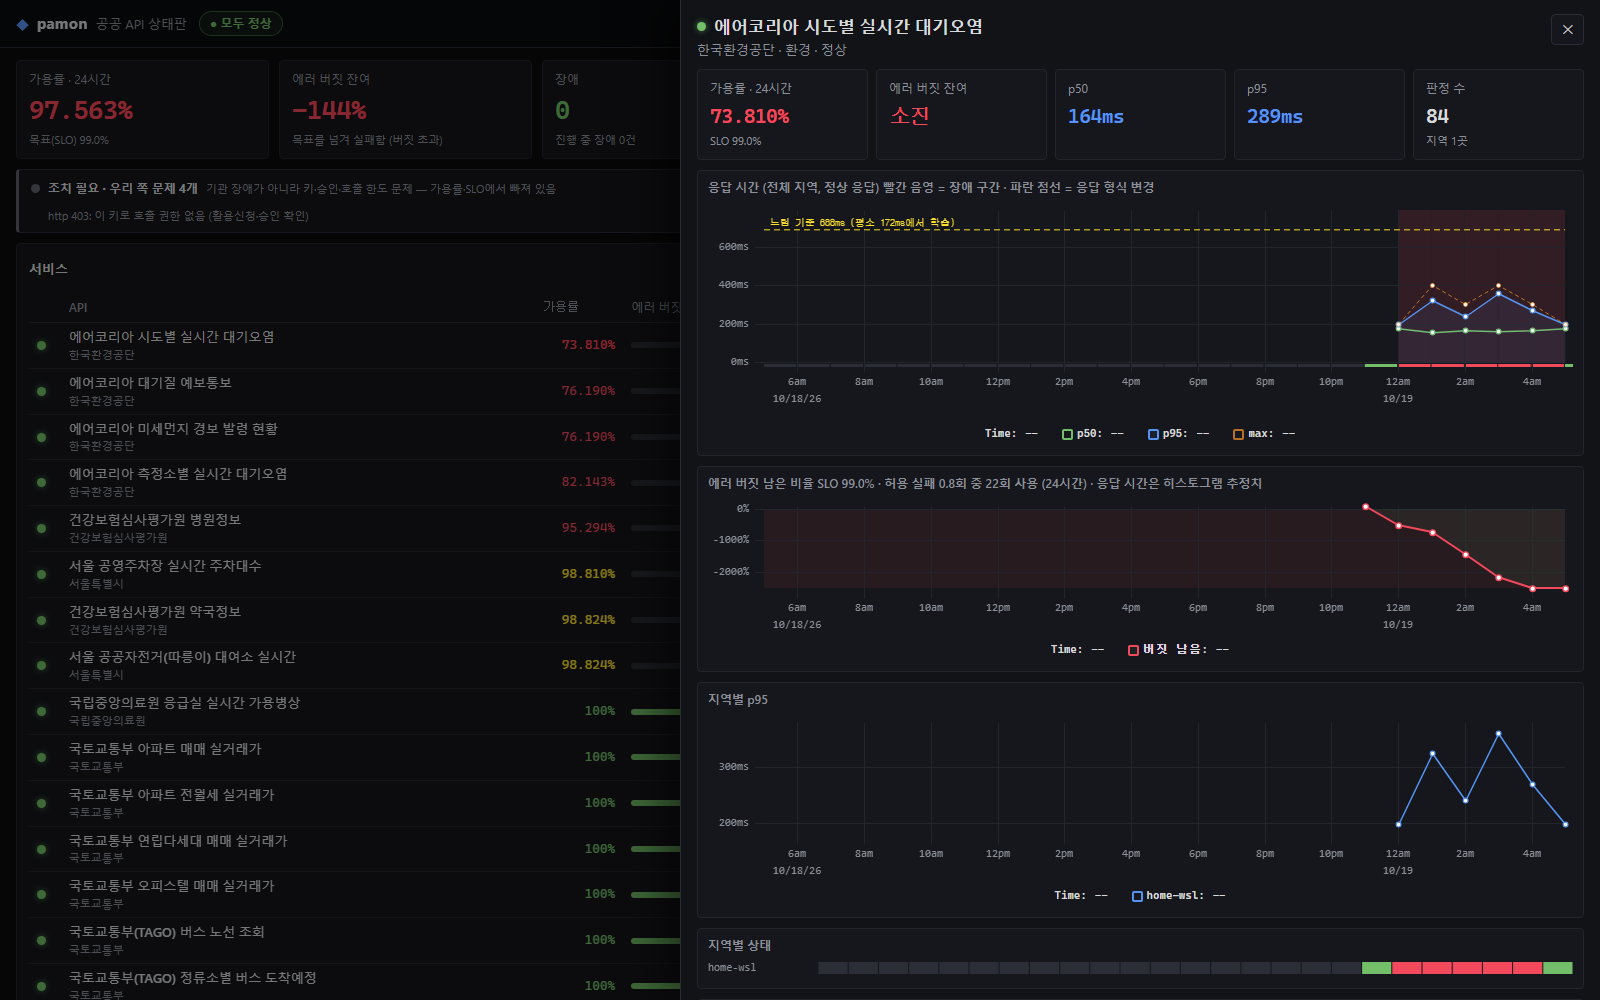
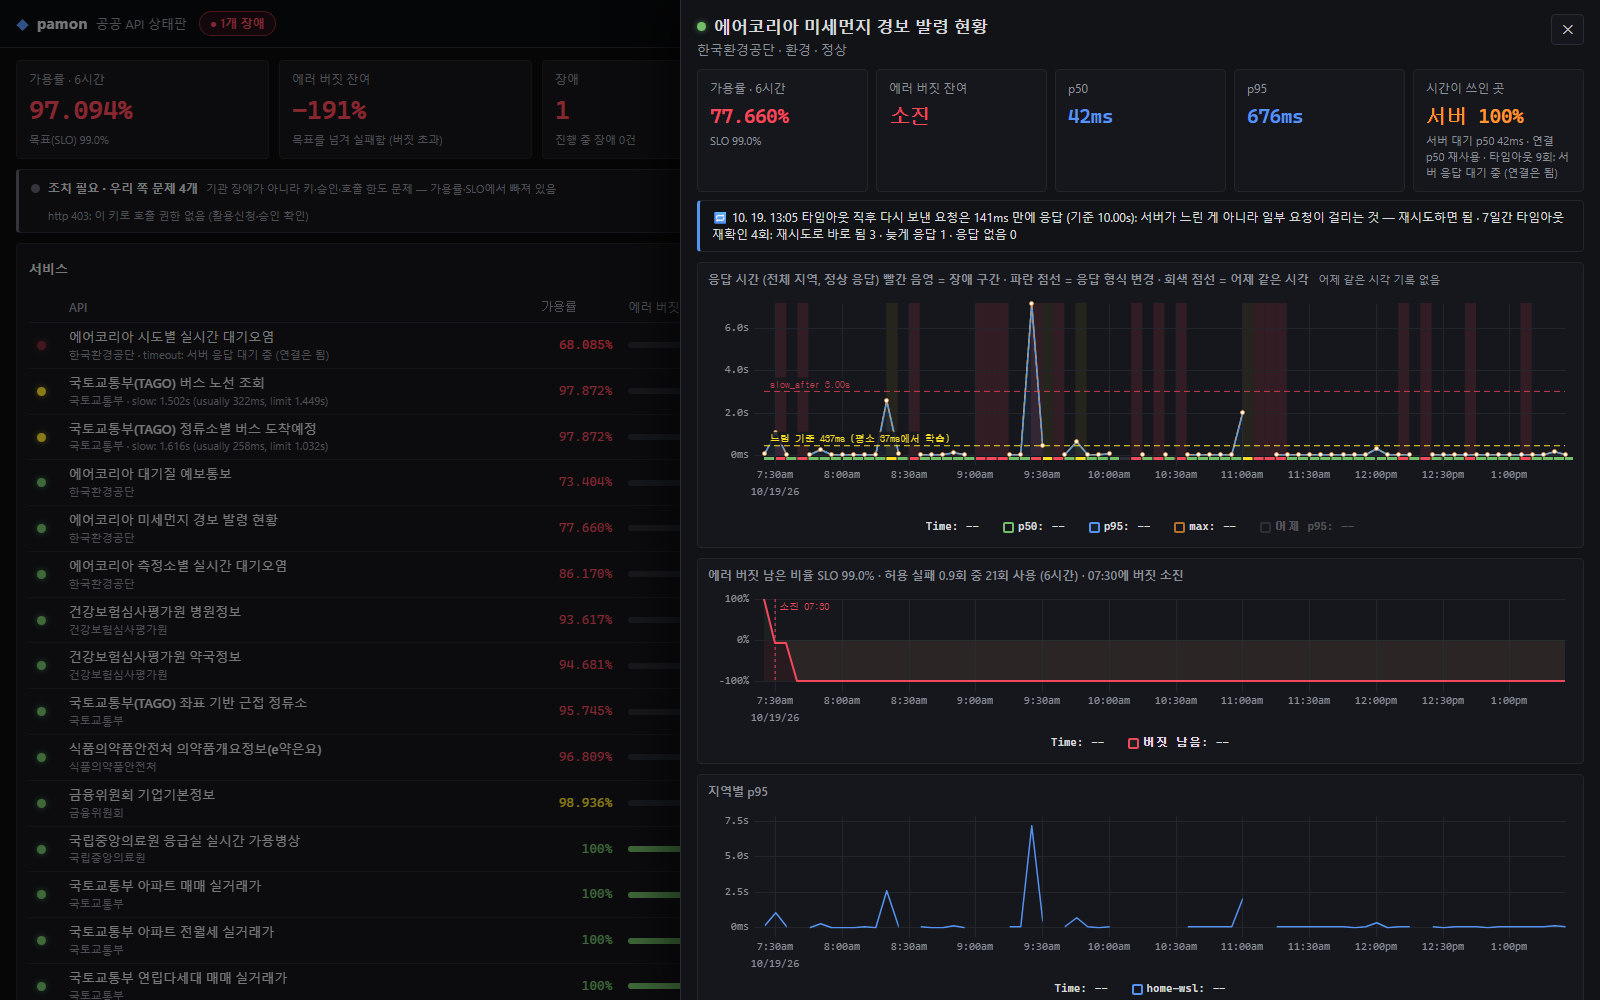
README: fresh screenshots of the dashboard, an API drawer and an incident
The drawer shows a live timeout follow-up (141 ms on retry), the learned slow
line and where the time goes; the incident view shows 문제 위치 with its
evidence and the next steps.

diff --git a/README.md b/README.md
@@ -6,17 +6,25 @@
 
 ![dashboard](docs/img/dashboard.png)
 
-*실제 운영 화면(2026-10-19 새벽).*
+*실제 운영 화면(2026-10-19 오후).*
 - **조치 필요 배너:** 승인 대기로 403이 나는 API 4개를 우리 쪽 문제로 묶어 보여준다.
-- **소진 속도 열:** 밤새 타임아웃 난 에어코리아 API들의 에러 버짓 소진 속도(burn rate)를 보여준다.
-- **티켓 태그:** 그중 30분 창도 함께 넘은 API에만 붙는다.
+- **소진 속도 열:** 에어코리아 API들이 에러 버짓을 태우는 속도(burn rate)를 보여준다. 1시간과 5분 창을 함께 넘은 API에만 '호출' 태그가, 6시간과 30분 창을 함께 넘은 API에만 '티켓' 태그가 붙는다.
 
 ![drawer](docs/img/drawer.png)
 
-*API 상세 화면.*
-- **응답 시간:** 이 API의 평소 응답에서 학습한 '느림' 기준선을 함께 그리고, 장애 구간은 붉게 칠한다.
-- **에러 버짓:** 남은 양이 기간 동안 어떻게 줄었는지 보여준다(burn-down).
-- **지역별:** 측정 지역마다 상태를 따로 보여준다.
+*API 상세 화면 (에어코리아 미세먼지 경보).*
+- **타임아웃 재확인:** 맨 위 줄이 결과를 보여준다. 이 API에서는 타임아웃 직후 다시 보낸 요청이 141ms 만에 응답했다(재시도로 바로 됨 3, 늦게 응답 1).
+- **응답 시간 차트:** 학습한 '느림' 기준선(평소 37ms → 437ms)과 고정 기준(slow_after 3s)을 함께 그리고, 장애 구간은 붉게 칠한다.
+- **에러 버짓:** 바닥난 시각을 표시한다.
+- **시간이 쓰인 곳:** 응답 시간의 100%가 기관 서버 대기다.
+
+![incident](docs/img/incident.png)
+
+*장애 상세 화면.*
+- **문제 위치:** 기관 서버로 판정하고, 근거(타임아웃 3회 모두 서버 응답 대기에서 멈춤)를 함께 보여준다.
+- **다음 할 일:** 공지 확인, 같은 기관의 다른 API 상태, 문의처, 런북 순서로 안내한다.
+- **원시 기록:** 지역 × 시간 표, 판정이 바뀐 순간, 원시 확인 기록이 이어진다.
+- **포스트모템 초안 복사:** 이 내용으로 원인 항목이 채워진 초안을 만든다.
 
 ## 한눈에
 
